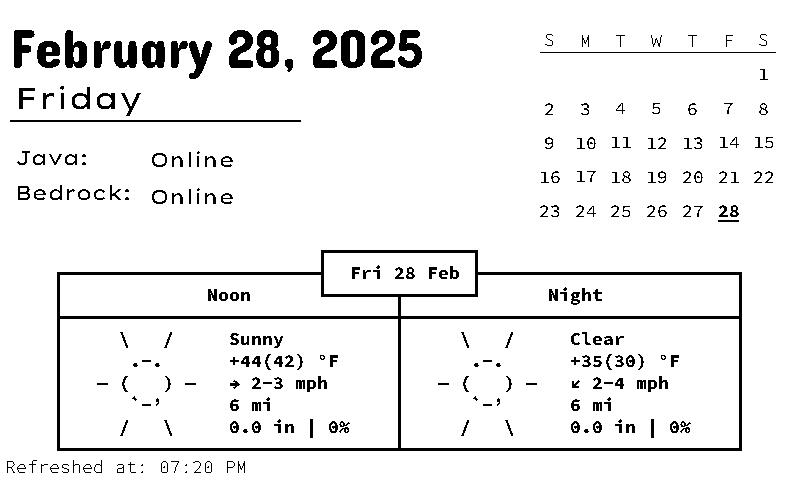
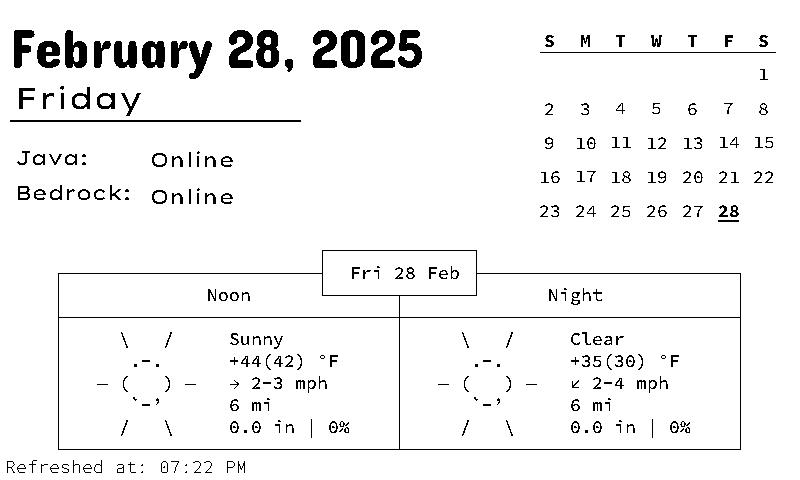
a

diff --git a/display.py b/display.py
@@ -113,7 +113,8 @@ def getWeather(draw: ImageDraw.ImageDraw):
 
 
     day = day.replace(current, "")
-    SSmono.set_variation_by_name("Bold")
+    print(SSmono.get_variation_names())
+    SSmono.set_variation_by_name("Medium")
     draw.text((400, 360), day, "black", SSmono, anchor="mm")
 
 def getCalendar(draw: ImageDraw.ImageDraw):
@@ -134,7 +135,8 @@ def getCalendar(draw: ImageDraw.ImageDraw):
 
     draw.line((x - 10, y + 12, x + width - 25, y + 12), "black", 1)
 
-    subFont.set_variation_by_name("Bold")
+    # subFont.set_variation_by_name("Bold")
+    SSmono.set_variation_by_name("Bold")
 
     for day in days:
         draw.text((
@@ -143,8 +145,6 @@ def getCalendar(draw: ImageDraw.ImageDraw):
         ), day, "black", SSmono, anchor="mm")
 
         i += 1
-    
-    subFont.set_variation_by_name("Regular")
 
     for row in month:
         for day in row:
